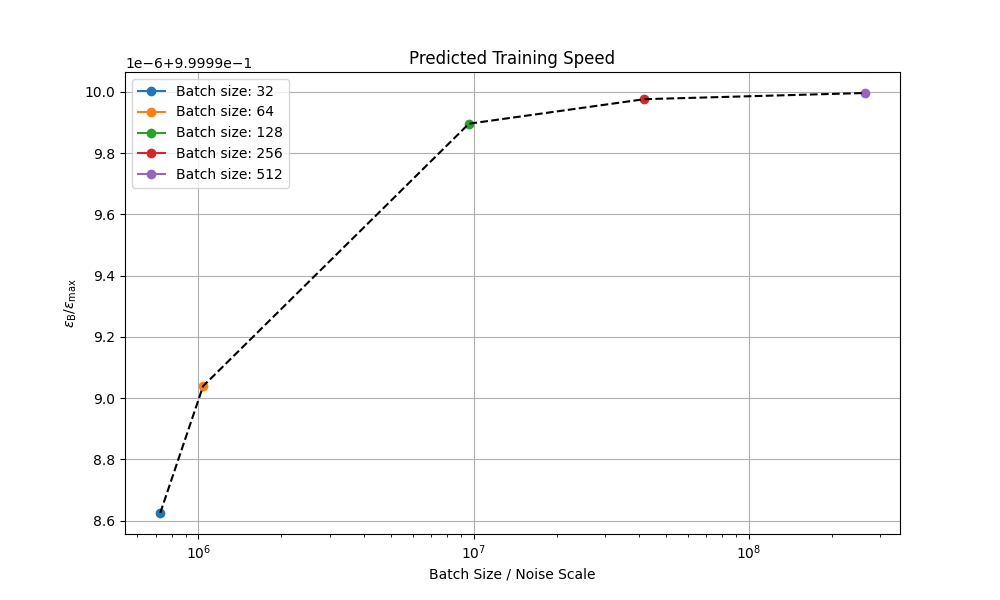
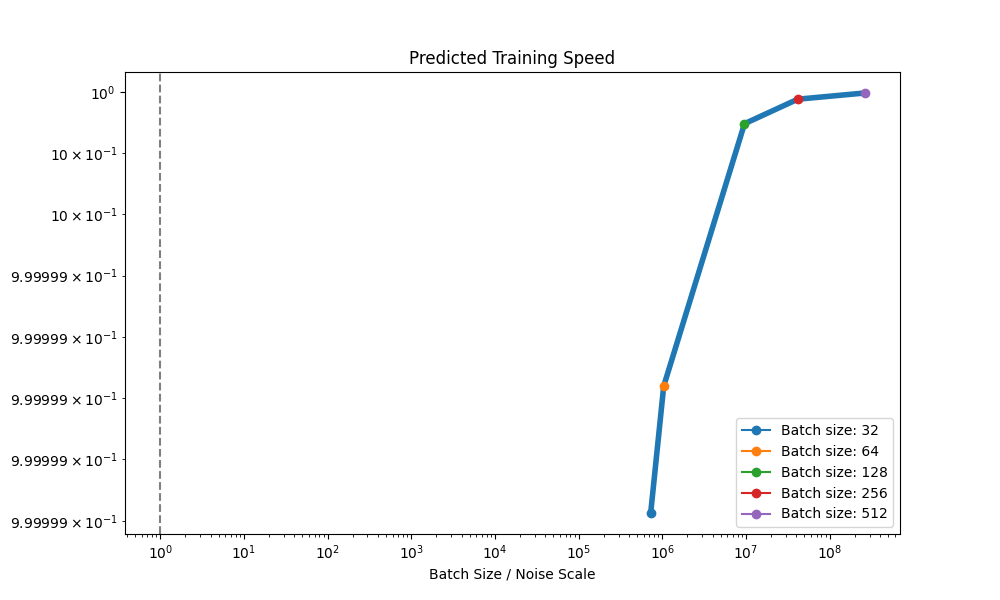
scaling laws with multiple accuracies

diff --git a/src/plot_scaling_laws.py b/src/plot_scaling_laws.py
@@ -25,40 +25,47 @@ centralized_experiment_results = [
     (batch_size, load_experiment(os.path.join(project_root, "results", f"centralized_experiment_results_{batch_size}.json")))
     for batch_size in centralized_experiment_batch_sizes
 ]
+
 # Left subplot: Compute Budget vs. Cumulative Training Time for each batch size
-for batch_size, results in centralized_experiment_results:
+fig, ax = plt.subplots(figsize=(10, 6))
 
-    # Calculate cumulative training time (sum over epochs)
-    cumulative_time = np.sum(results["training_time"])
-    compute_budget = np.sum(results["compute_cost"])
-    x_vals.append(cumulative_time)
-    y_vals.append(compute_budget)
-    ax.plot(cumulative_time, compute_budget, marker='o', label=f"Batch size: {batch_size}")
-    
-    print(f"Batch size: {batch_size}")
-    print(f"Total Training Time (s): {cumulative_time}")
-    print(f"Compute Budget (samples): {compute_budget}")
+accuracy_thresholds = [0.4, 0.5, 0.6]
+colors = ['#1f77b4', '#ff7f0e', '#2ca02c']  # Blue, Orange, Green
 
+for idx, (accuracy_threshold, color) in enumerate(zip(accuracy_thresholds, colors)):
+    x_vals = []
+    y_vals = []
+    for batch_size, results in centralized_experiment_results:
+        # Find number of epochs to reach accuracy threshold
+        num_epochs = len(results["accuracies"])
+        for epoch, acc in enumerate(results["accuracies"]):
+            if acc >= accuracy_threshold:
+                num_epochs = epoch + 1
+                break
 
+        time_per_round = results["training_time"] / len(results["accuracies"])
+        cumulative_time = time_per_round * num_epochs
+        compute_budget = np.sum(results["compute_cost"][:num_epochs])
+        
+        x_vals.append(cumulative_time)
+        y_vals.append(compute_budget)
+        ax.plot(cumulative_time, compute_budget, marker='o', color=color,
+                label=f"Batch size: {batch_size}, Acc threshold: {accuracy_threshold}")
+        
+        print(f"Batch size: {batch_size}, Acc threshold: {accuracy_threshold}")
+        print(f"Total Training Time (s): {cumulative_time}")
+        print(f"Compute Budget (samples): {compute_budget}")
 
-# this makes the fit better
-#x_vals = x_vals[:-2] + x_vals[-1:]
-#y_vals = y_vals[:-2] + y_vals[-1:]
-# Fit a power law to the data
-#popt, _ = curve_fit(lambda t, a, b, c: a * t**b + c, x_vals, y_vals)#
-#a, b, c = popt
+    ax.plot(x_vals, y_vals, linestyle='--', color=color)
 
-ax.plot(x_vals, y_vals, linestyle='--', color='black')
-# Plot the power law fit
-#ax.plot(x_vals, a * np.array(x_vals)**b + c, label=f"Power law fit: {a:.2e} * t^{b:.2f} + {c:.2e}")
-
+ax.set_yscale('log')
+ax.set_xscale('log')
 ax.set_xlabel("Total Training Time (s)")
 ax.set_ylabel("Compute Budget (Total Samples Processed)")
 ax.set_title("Compute Budget vs. Total Training Time")
 ax.legend()
-ax.grid(True)
 
-fig.savefig(os.path.join(save_dir, "noise_scaling_tradeoff_centralized.png"))
+fig.savefig(os.path.join(save_dir, "compute_budget_centralized.png"))
 
 x_vals = []
 y_vals = []
@@ -79,14 +86,14 @@ for batch_size, results in centralized_experiment_results:
     print(f"Noise Scale: {noise_scale}")
 
 
-ax.plot(x_vals, y_vals, linestyle='--', color='black')
-# x axis log scale
+ax.axvline(x=1, color='gray', linestyle='--')
+ax.plot(x_vals, y_vals, linestyle='-', color='#1f77b4', linewidth=4, zorder=0)
+ax.set_yscale('log')
 ax.set_xscale('log')
 ax.set_xlabel("Batch Size / Noise Scale")
 ax.set_ylabel(fr"${{\epsilon_\text{{B}}}} / {{\epsilon_\text{{max}}}}$")
 ax.set_title("Predicted Training Speed")
 ax.legend()
-ax.grid(True)
 
 fig.savefig(os.path.join(save_dir, "lr_scaling_centralized.png"))
 
@@ -113,6 +120,8 @@ def load_experiment_pickle(file_name):
     )
 
 
+###################################################### LOCAL BATCH SIZE #####################################################
+
 experiment_batch_sizes = [16, 32, 64, 128, 256]
 save_dir = os.path.join(project_root, "plots", "federated")
 os.makedirs(save_dir, exist_ok=True)
@@ -125,37 +134,49 @@ for batch_size in experiment_batch_sizes:
 # Create first figure: Compute Budget vs Training Time
 fig, ax = plt.subplots(figsize=(10, 6))
 
-x_vals = []
-y_vals = []
-for batch_size, params, hist in total_batch_results:
-    times = []
-    samples = []
-    for round_idx, round_metrics in hist.metrics_distributed_fit['training_time']:
-        round_times = [t for _, t in round_metrics['all']]
-        times.append(np.mean(round_times))
+accuracy_thresholds = [0.4, 0.5, 0.6]
+for accuracy_threshold in accuracy_thresholds:
+    x_vals = []
+    y_vals = []
+    for batch_size, params, hist in total_batch_results:
+        times = []
+        samples = []
         
-    for round_idx, round_metrics in hist.metrics_distributed_fit['samples_processed']:
-        round_samples = [s for _, s in round_metrics['all']]
-        samples.append(np.sum(round_samples))
-    
-    cumulative_time = np.sum(times)
-    total_samples = np.sum(samples)
-    x_vals.append(cumulative_time)
-    y_vals.append(total_samples)
-    ax.plot(cumulative_time, total_samples, marker='o', label=f"Local batch size: {batch_size}")
-    
-    print(f"Batch size: {batch_size}")
-    print(f"Total Training Time (s): {cumulative_time}")
-    print(f"Compute Budget (samples): {total_samples}")
+        num_rounds = len(hist.metrics_centralized['accuracy']) - 1
+        for round_idx, centralized_accuracy in hist.metrics_centralized['accuracy']:
+            if centralized_accuracy >= accuracy_threshold:
+                num_rounds = round_idx
+                break
 
-ax.plot(x_vals, y_vals, linestyle='--', color='black')
+        for round_idx, round_metrics in hist.metrics_distributed_fit['training_time']:
+            if round_idx > num_rounds:
+                break
+            round_times = [t for _, t in round_metrics['all']]
+            times.append(np.mean(round_times))
+            
+        for round_idx, round_metrics in hist.metrics_distributed_fit['samples_processed']:
+            if round_idx > num_rounds:
+                break
+            round_samples = [s for _, s in round_metrics['all']]
+            samples.append(np.sum(round_samples))
+        
+        cumulative_time = np.sum(times)
+        total_samples = np.sum(samples)
+        x_vals.append(cumulative_time)
+        y_vals.append(total_samples)
+        ax.plot(cumulative_time, total_samples, marker='o', 
+                label=f"Local Batch size: {batch_size}, Acc threshold: {accuracy_threshold}")
+
+    ax.plot(x_vals, y_vals, linestyle='--', color='black')
+
+ax.set_yscale('log')
+ax.set_xscale('log')
 ax.set_xlabel("Total Training Time (s)")
 ax.set_ylabel("Compute Budget (Total Samples Processed)")
 ax.set_title("Compute Budget vs. Total Training Time")
 ax.legend()
-ax.grid(True)
 
-fig.savefig(os.path.join(save_dir, "noise_scaling_tradeoff_federated.png"))
+fig.savefig(os.path.join(save_dir, "compute_budget_federated_local_batch_size.png"))
 
 # Create second figure: Noise Scale Analysis
 fig, ax = plt.subplots(figsize=(10, 6))
@@ -175,25 +196,27 @@ for batch_size, params, hist in total_batch_results:
     x_vals.append(x_axis)
     y_vals.append(y_axis)
     
-    ax.plot(x_axis, y_axis, marker='o', label=f"Batch size: {batch_size}")
+    ax.plot(x_axis, y_axis, marker='o', label=f"Local Batch size: {batch_size}")
     
     print(f"Batch size: {batch_size}")
     print(f"Avg Noise Scale: {avg_noise_scale}")
 
-ax.plot(x_vals, y_vals, linestyle='--', color='black')
+ax.axvline(x=1, color='gray', linestyle='--')
+ax.plot(x_vals, y_vals, linestyle='-', color='#1f77b4', linewidth=4, zorder=0)
+ax.set_yscale('log')
 ax.set_xscale('log')
 ax.set_xlabel("Batch Size / Noise Scale")
 ax.set_ylabel(fr"${{\epsilon_\text{{B}}}} / {{\epsilon_\text{{max}}}}$")
 ax.set_title("Predicted Training Speed")
 ax.legend()
-ax.grid(True)
 
-fig.savefig(os.path.join(save_dir, "lr_scaling_federated.png"))
+fig.savefig(os.path.join(save_dir, "lr_scaling_federated_local_batch_size.png"))
 
 plt.tight_layout()
 plt.show()
 
 
+###################################################### COHORT SIZE #####################################################
 
 
 time_per_round = 0.00427
@@ -206,31 +229,43 @@ for cohort_size in cohort_sizes:
 # Create first figure: Compute Budget vs Training Time
 fig, ax = plt.subplots(figsize=(10, 6))
 
-x_vals = []
-y_vals = []
-for cohort_size, params, hist in total_cohort_results:
-    times = []
-    samples = []
-    num_rounds = len(hist.metrics_distributed_fit['samples_processed'])
-    cumulative_time = num_rounds * time_per_round
+accuracy_thresholds = [0.4, 0.5, 0.6]
+for accuracy_threshold in accuracy_thresholds:
+    x_vals = []
+    y_vals = []
+    for cohort_size, params, hist in total_cohort_results:
+        times = []
+        samples = []
 
-    for round_idx, round_metrics in hist.metrics_distributed_fit['samples_processed']:
-        round_samples = [s for _, s in round_metrics['all']]
-        samples.append(np.sum(round_samples))
-    
-    total_samples = np.sum(samples)
-    x_vals.append(cumulative_time)
-    y_vals.append(total_samples)
-    ax.plot(cumulative_time, total_samples, marker='o', label=f"Cohort size: {cohort_size}")
+        num_rounds = len(hist.metrics_centralized['accuracy']) - 1
+        for round_idx, centralized_accuracy in hist.metrics_centralized['accuracy']:
+            if centralized_accuracy >= accuracy_threshold:
+                num_rounds = round_idx
+                break
 
-ax.plot(x_vals, y_vals, linestyle='--', color='black')
+        cumulative_time = num_rounds * time_per_round
+
+        for round_idx, round_metrics in hist.metrics_distributed_fit['samples_processed']:
+            if round_idx > num_rounds:
+                break
+            round_samples = [s for _, s in round_metrics['all']]
+            samples.append(np.sum(round_samples))
+        
+        total_samples = np.sum(samples)
+        x_vals.append(cumulative_time)
+        y_vals.append(total_samples)
+        ax.plot(cumulative_time, total_samples, marker='o', label=f"Cohort size: {cohort_size}, Accuracy threshold: {accuracy_threshold}")
+
+    ax.plot(x_vals, y_vals, linestyle='--', color='black')
+
+ax.set_yscale('log')
+ax.set_xscale('log')
 ax.set_xlabel("Total Training Time (s)")
 ax.set_ylabel("Compute Budget (Total Samples Processed)")
 ax.set_title("Compute Budget vs. Total Training Time")
 ax.legend()
-ax.grid(True)
 
-fig.savefig(os.path.join(save_dir, "compute_budget_federated.png"))
+fig.savefig(os.path.join(save_dir, "compute_budget_federated_cohort_size.png"))
 
 # Create second figure: Noise Scale Analysis
 fig, ax = plt.subplots(figsize=(10, 6))
@@ -252,26 +287,23 @@ for cohort_size, params, hist in total_cohort_results:
     
     ax.plot(x_axis, y_axis, marker='o', label=f"Cohort size: {cohort_size}")
 
-ax.plot(x_vals, y_vals, linestyle='--', color='black')
+ax.axvline(x=1, color='gray', linestyle='--')
+ax.plot(x_vals, y_vals, linestyle='-', color='#1f77b4', linewidth=4, zorder=0)
+ax.set_yscale('log')
+ax.set_xscale('log')
 ax.set_xlabel("Cohort Size / Noise Scale")
 ax.set_ylabel(fr"${{\epsilon_\text{{B}}}} / {{\epsilon_\text{{max}}}}$")
 ax.set_title("Predicted Training Speed")
 ax.legend()
-ax.grid(True)
 
-fig.savefig(os.path.join(save_dir, "noise_scale_cohort_federated.png"))
+fig.savefig(os.path.join(save_dir, "lr_scaling_federated_cohort_size.png"))
 
 plt.tight_layout()
 plt.show()
 
 
 
-
-
-
-
-
-
+###################################################### GLOBAL BATCH SIZE #####################################################
 
 
 # global batch size
@@ -287,31 +319,44 @@ for cohort_size, batch_size in cs_bs_pairs:
 # Create first figure: Compute Budget vs Training Time
 fig, ax = plt.subplots(figsize=(10, 6))
 
-x_vals = []
-y_vals = []
-for batch_size, params, hist in total_global_batch_results:
-    times = []
-    samples = []
-    num_rounds = len(hist.metrics_distributed_fit['samples_processed'])
-    cumulative_time = num_rounds * time_per_round
+accuracy_thresholds = [0.4, 0.5, 0.6]
+for accuracy_threshold in accuracy_thresholds:
+    x_vals = []
+    y_vals = []
+    for batch_size, params, hist in total_global_batch_results:
+        times = []
+        samples = []
+        
+        num_rounds = len(hist.metrics_centralized['accuracy']) - 1
+        for round_idx, centralized_accuracy in hist.metrics_centralized['accuracy']:
+            if centralized_accuracy >= accuracy_threshold:
+                num_rounds = round_idx
+                break
 
-    for round_idx, round_metrics in hist.metrics_distributed_fit['samples_processed']:
-        round_samples = [s for _, s in round_metrics['all']]
-        samples.append(np.sum(round_samples))
-    
-    total_samples = np.sum(samples)
-    x_vals.append(cumulative_time)
-    y_vals.append(total_samples)
-    ax.plot(cumulative_time, total_samples, marker='o', label=f"Global batch size: {batch_size}")
+        cumulative_time = num_rounds * time_per_round
 
-ax.plot(x_vals, y_vals, linestyle='--', color='black')
+        for round_idx, round_metrics in hist.metrics_distributed_fit['samples_processed']:
+            if round_idx > num_rounds:
+                break
+            round_samples = [s for _, s in round_metrics['all']]
+            samples.append(np.sum(round_samples))
+        
+        total_samples = np.sum(samples)
+        x_vals.append(cumulative_time)
+        y_vals.append(total_samples)
+        ax.plot(cumulative_time, total_samples, marker='o', 
+                label=f"Global batch size: {batch_size}, Acc threshold: {accuracy_threshold}")
+
+    ax.plot(x_vals, y_vals, linestyle='--', color='black')
+
+ax.set_yscale('log')
+ax.set_xscale('log')
 ax.set_xlabel("Total Training Time (s)")
 ax.set_ylabel("Compute Budget (Total Samples Processed)")
 ax.set_title("Compute Budget vs. Total Training Time")
 ax.legend()
-ax.grid(True)
 
-fig.savefig(os.path.join(save_dir, "compute_budget_global_batch_size.png"))
+fig.savefig(os.path.join(save_dir, "compute_budget_federated_global_batch_size.png"))
 
 # Create second figure: Noise Scale Analysis
 fig, ax = plt.subplots(figsize=(10, 6))
@@ -342,9 +387,8 @@ ax.set_yscale('log')
 ax.set_xscale('log')
 ax.set_title("Predicted Training Speed")
 ax.legend()
-#ax.grid(True)
 
-fig.savefig(os.path.join(save_dir, "lr_scaling_global_batch_size.png"))
+fig.savefig(os.path.join(save_dir, "lr_scaling_federated_global_batch_size.png"))
 
 plt.tight_layout()
 plt.show()
